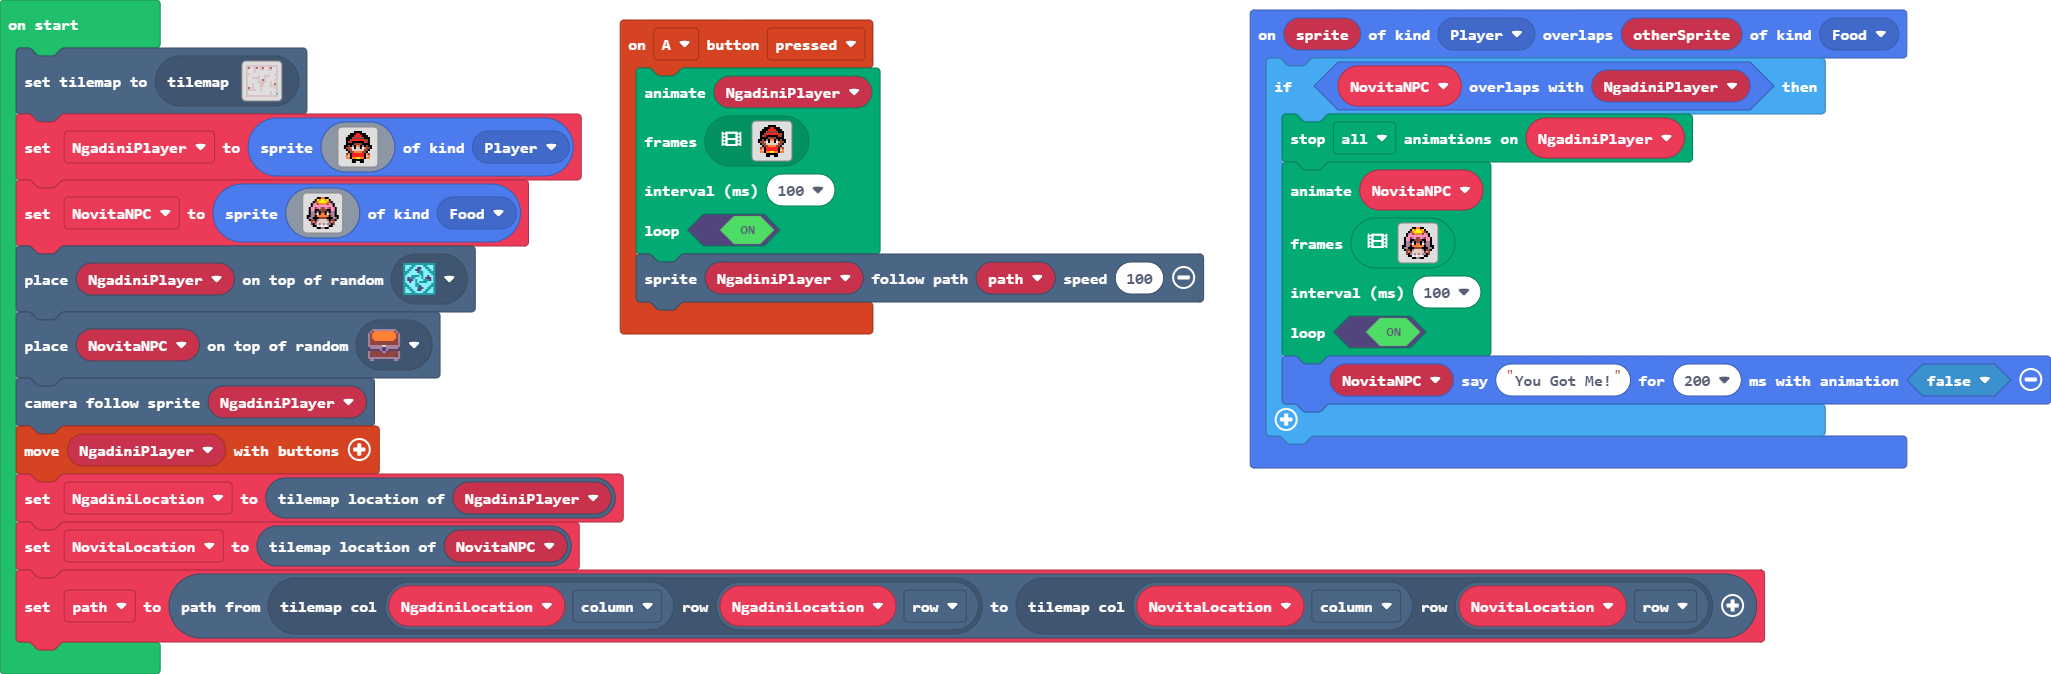
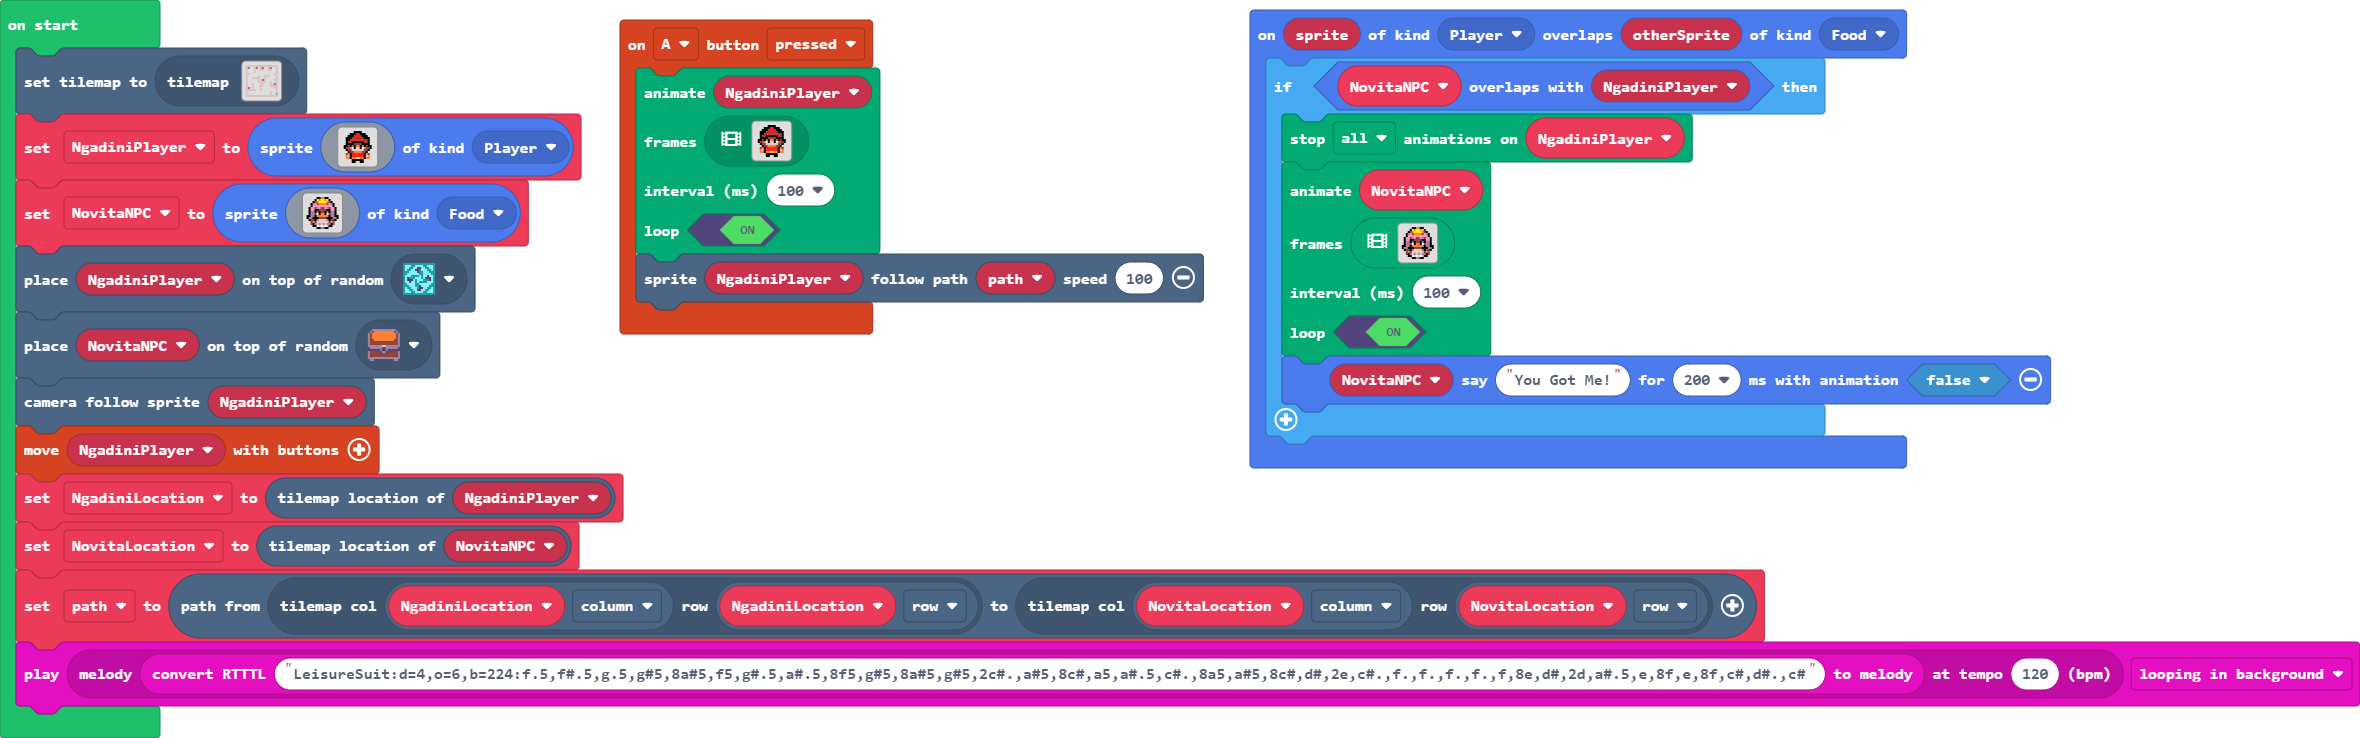
Add music background in game

diff --git a/main.ts b/main.ts
@@ -32,3 +32,4 @@ controller.moveSprite(NgadiniPlayer)
 let NgadiniLocation = NgadiniPlayer.tilemapLocation()
 let NovitaLocation = NovitaNPC.tilemapLocation()
 path = scene.aStar(tiles.getTileLocation(NgadiniLocation.column, NgadiniLocation.row), tiles.getTileLocation(NovitaLocation.column, NovitaLocation.row))
+music.play(music.stringPlayable(music.convertRTTTLToMelody("LeisureSuit:d=4,o=6,b=224:f.5,f#.5,g.5,g#5,8a#5,f5,g#.5,a#.5,8f5,g#5,8a#5,g#5,2c#.,a#5,8c#,a5,a#.5,c#.,8a5,a#5,8c#,d#,2e,c#.,f.,f.,f.,f.,f,8e,d#,2d,a#.5,e,8f,e,8f,c#,d#.,c#"), 120), music.PlaybackMode.LoopingInBackground)

diff --git a/main.py b/main.py
@@ -40,3 +40,6 @@ NgadiniLocation = NgadiniPlayer.tilemap_location()
 NovitaLocation = NovitaNPC.tilemap_location()
 path = scene.a_star(tiles.get_tile_location(NgadiniLocation.column, NgadiniLocation.row),
     tiles.get_tile_location(NovitaLocation.column, NovitaLocation.row))
+music.play(music.string_playable(music.convert_rtttl_to_melody("LeisureSuit:d=4,o=6,b=224:f.5,f#.5,g.5,g#5,8a#5,f5,g#.5,a#.5,8f5,g#5,8a#5,g#5,2c#.,a#5,8c#,a5,a#.5,c#.,8a5,a#5,8c#,d#,2e,c#.,f.,f.,f.,f.,f,8e,d#,2d,a#.5,e,8f,e,8f,c#,d#.,c#"),
+        120),
+    music.PlaybackMode.LOOPING_IN_BACKGROUND)
